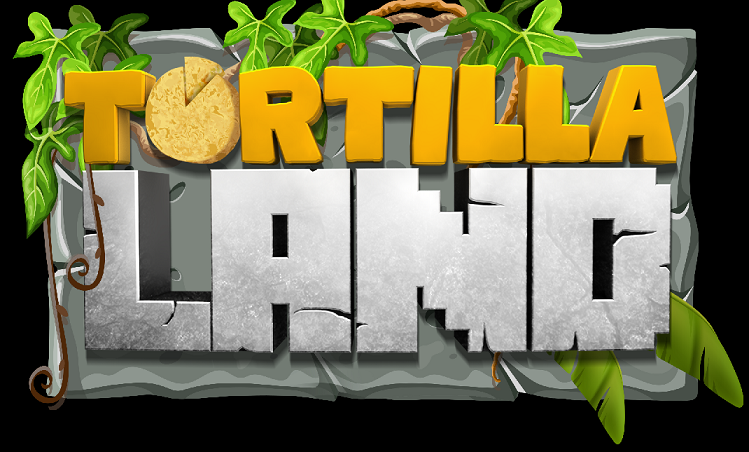
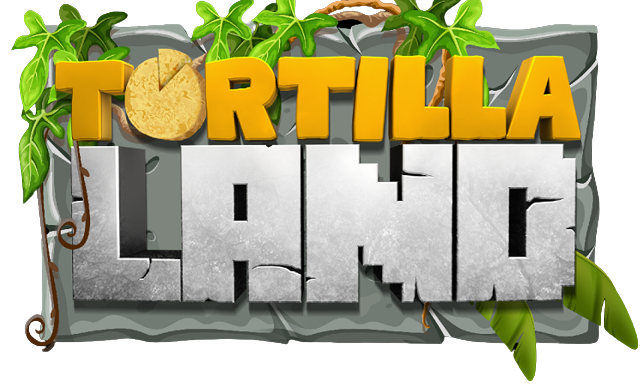
:pushpin: | Home page and remove tortillaland background

Changed region(s): [[0.0, 0.0, 1.0, 1.0]]

diff --git a/src/components/Home.jsx b/src/components/Home.jsx
@@ -1,9 +1,24 @@
-import React from 'react'
+import React from "react";
+import { Link } from "react-router-dom";
 
 const Home = () => {
-  return (
-    <div></div>
-  )
-}
+    return (
+        <div className="text-center my-3">
+            <h3>
+                Mira los streamers de tus series favoritas que están en directo
+                💻
+            </h3>
+            <p className="mt-3">Pincha en la imagen de la serie en la que quieres ver los streamers en directo</p>
+            <div className="d-flex justify-content-center mt-3 gap-3">
+              <Link to="/tortillaland" > 
+                <img src={`${process.env.PUBLIC_URL}/images/tortillaland.png`} alt="Twitch" className="img-fluid img-serie" />
+              </Link>
+              <Link to="/karmaland" > 
+                <img src={`${process.env.PUBLIC_URL}/images/karmaland-5.webp`} alt="Twitch" className="img-fluid img-serie" />
+              </Link>
+            </div>
+        </div>
+    );
+};
 
-export default Home
+export default Home;

diff --git a/public/index.html b/public/index.html
@@ -6,13 +6,13 @@
   <link rel="icon" href="%PUBLIC_URL%/MineCraft.ico" />
   <meta name="viewport" content="width=device-width, initial-scale=1" />
   <meta name="theme-color" content="#000000" />
-  <meta name="description" content="Revisa los canales que estén en línea transmitiendo Karmaland" />
+  <meta name="description" content="Revisa los canales que estén en línea transmitiendo Karmaland y Tortillaland" />
   <link rel="apple-touch-icon" href="%PUBLIC_URL%/MineCraft.ico" />
 
   <link rel="manifest" href="%PUBLIC_URL%/manifest.json" />
   <link href="https://cdn.jsdelivr.net/npm/bootstrap@5.1.3/dist/css/bootstrap.min.css" rel="stylesheet"
     integrity="sha384-1BmE4kWBq78iYhFldvKuhfTAU6auU8tT94WrHftjDbrCEXSU1oBoqyl2QvZ6jIW3" crossorigin="anonymous">
-  <title>Karmaland - Status</title>
+  <title>Karmaland y Tortillaland - Status</title>
 </head>
 
 <body>

diff --git a/src/App.js b/src/App.js
@@ -12,7 +12,7 @@ function App() {
     <BrowserRouter>
       <Navbar />
       <Routes>
-        <Route path="/" exact element={<Home/>}/>
+        <Route path="/karmaland-ui" exact element={<Home/>}/>
         <Route
           path="karmaland"
           element={

diff --git a/src/components/Navbar.jsx b/src/components/Navbar.jsx
@@ -22,7 +22,7 @@ const Navbar = () => {
             <li className="nav-item">
               <NavLink
                 className='nav-link'
-                to="/"
+                to="/karmaland-ui"
                 end
               >
                 Inicio

diff --git a/src/index.css b/src/index.css
@@ -334,3 +334,9 @@ a {
         background-color: #65372907;
     }
 }
+
+.img-serie{
+    width: 200px;
+    object-fit: cover;
+    border-radius: 4px;
+}
